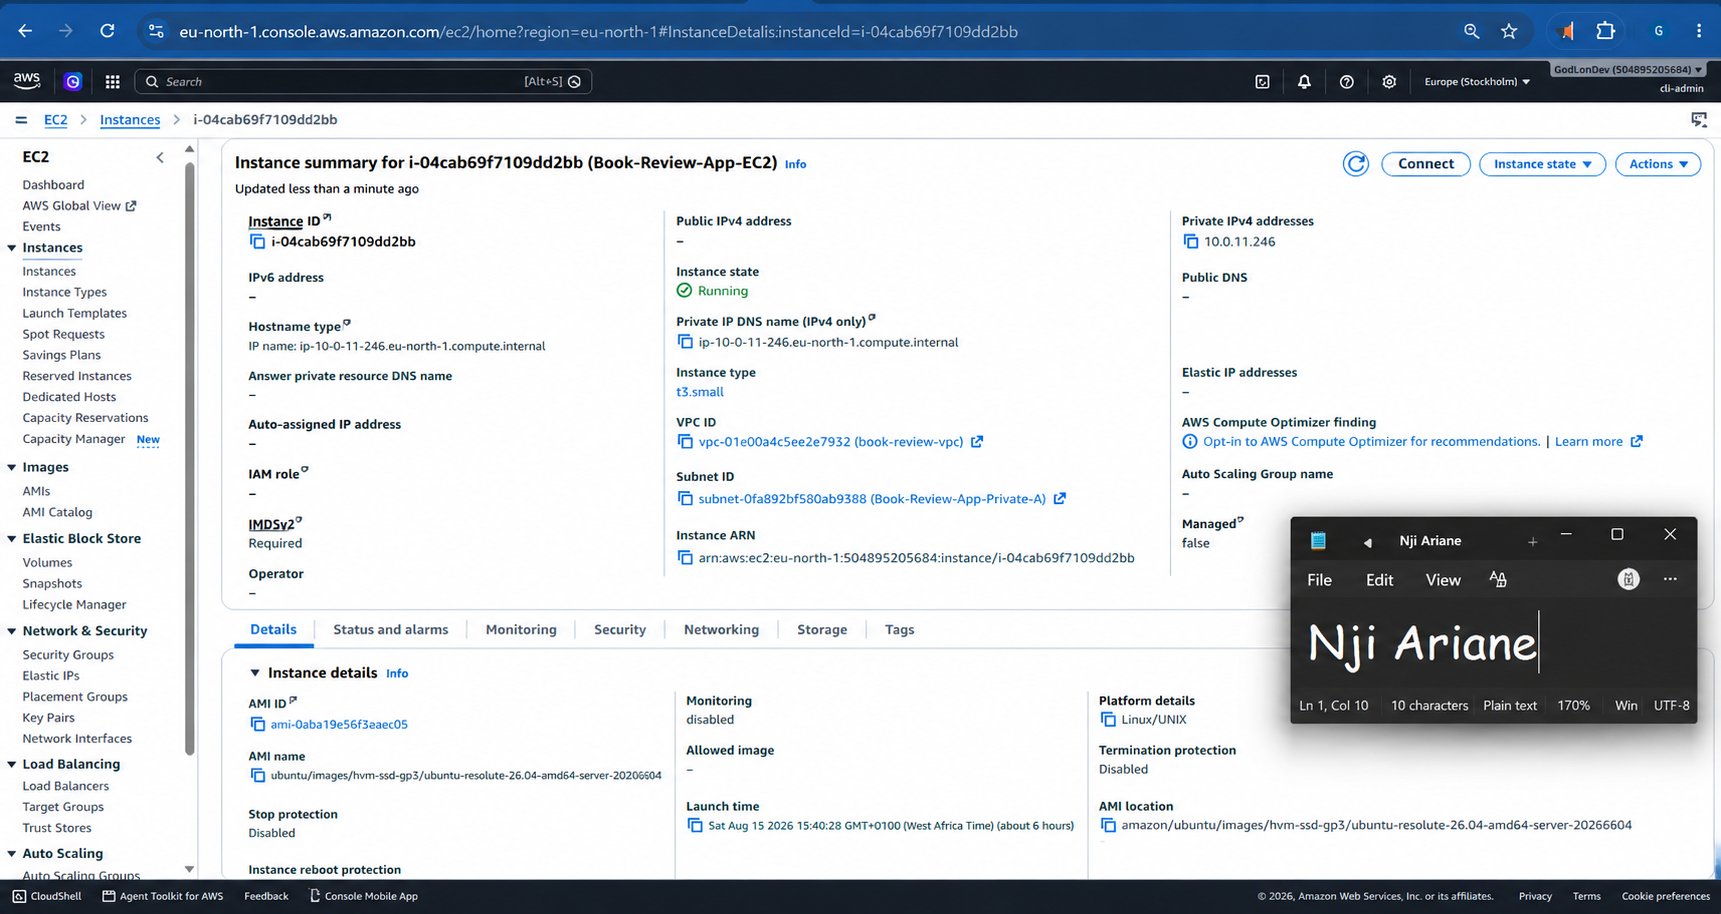
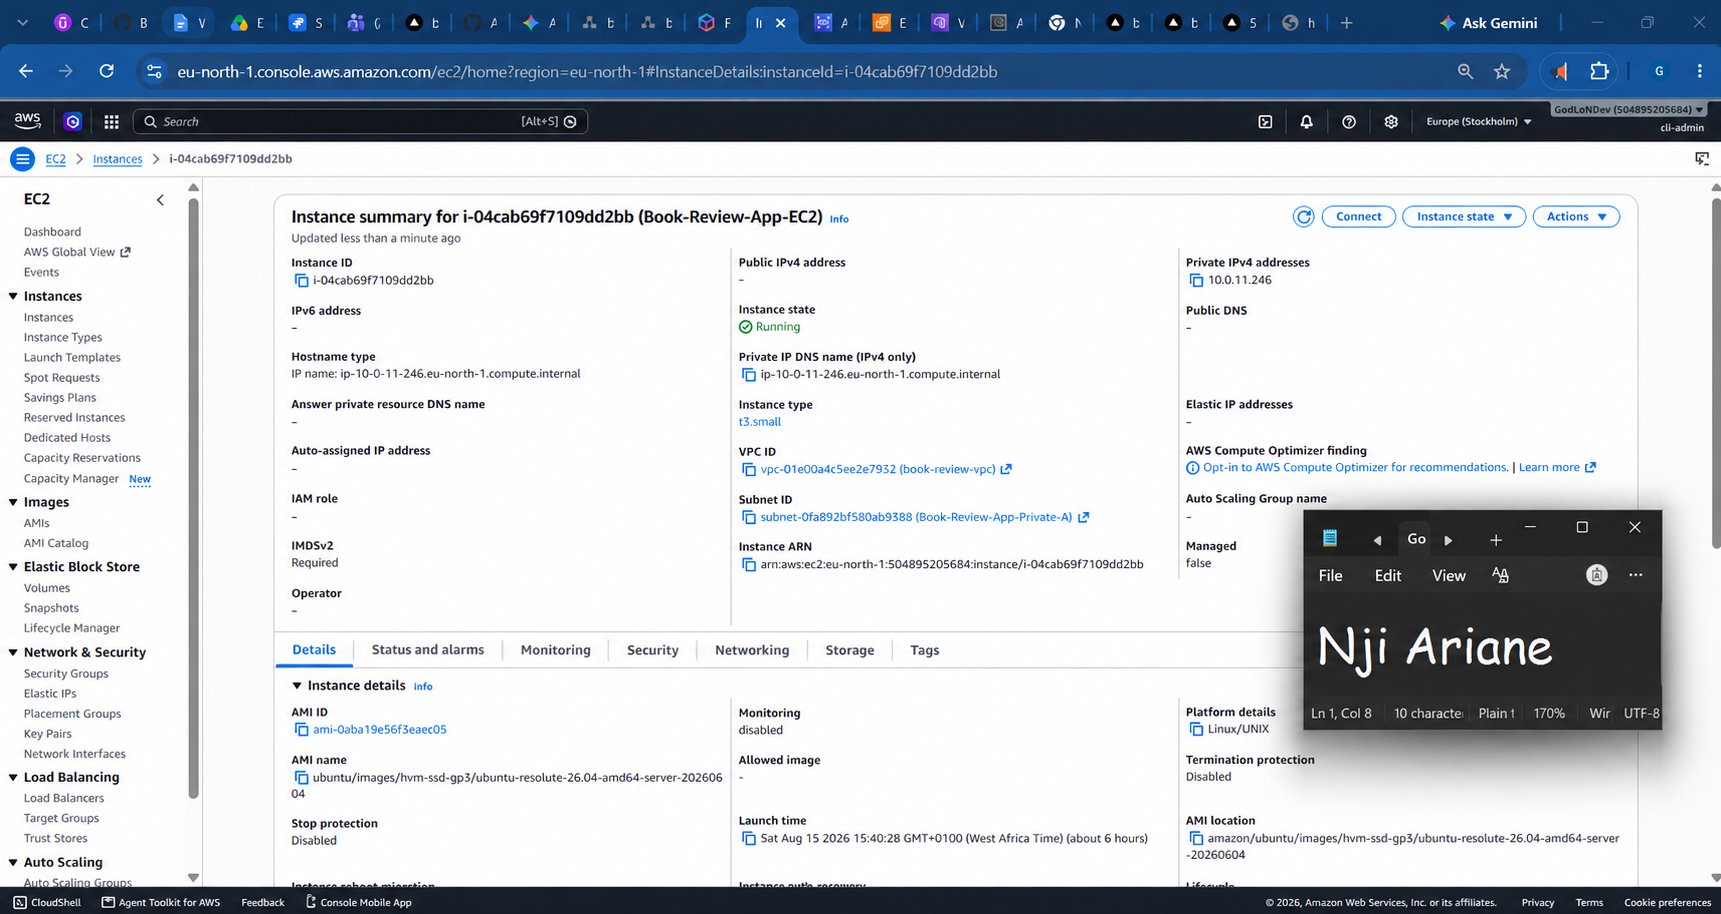
assignment6

Changed region(s): [[0.0, 0.0, 1.0, 1.0]]

diff --git a/week-06-aws-cloud/assignment-06-capstone-deploy-book-review-app-three-tier-architecture-on-aws.md b/week-06-aws-cloud/assignment-06-capstone-deploy-book-review-app-three-tier-architecture-on-aws.md
@@ -85,8 +85,7 @@ Capture visual proof of every tier and load balancer.
 
 #### App EC2
 
-![App EC2](screenshots/week-6-assign-6-task-4-app-ec2.png)
-
+![App EC2](screenshots/App-EC2.png)
 ---
 
 #### Public ALB
